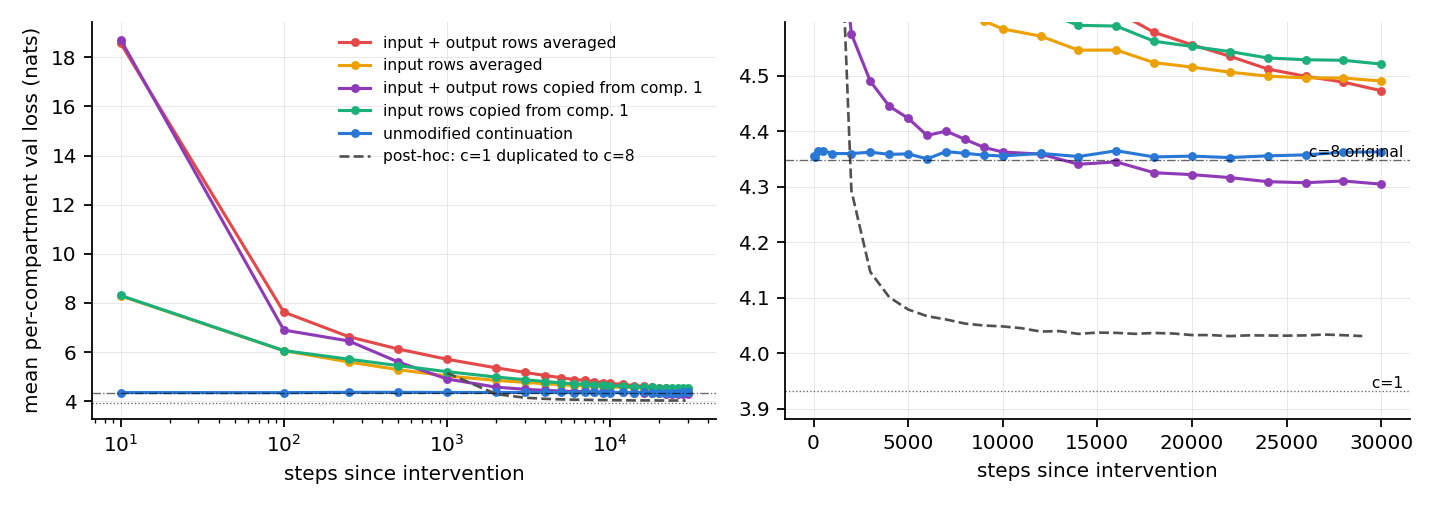
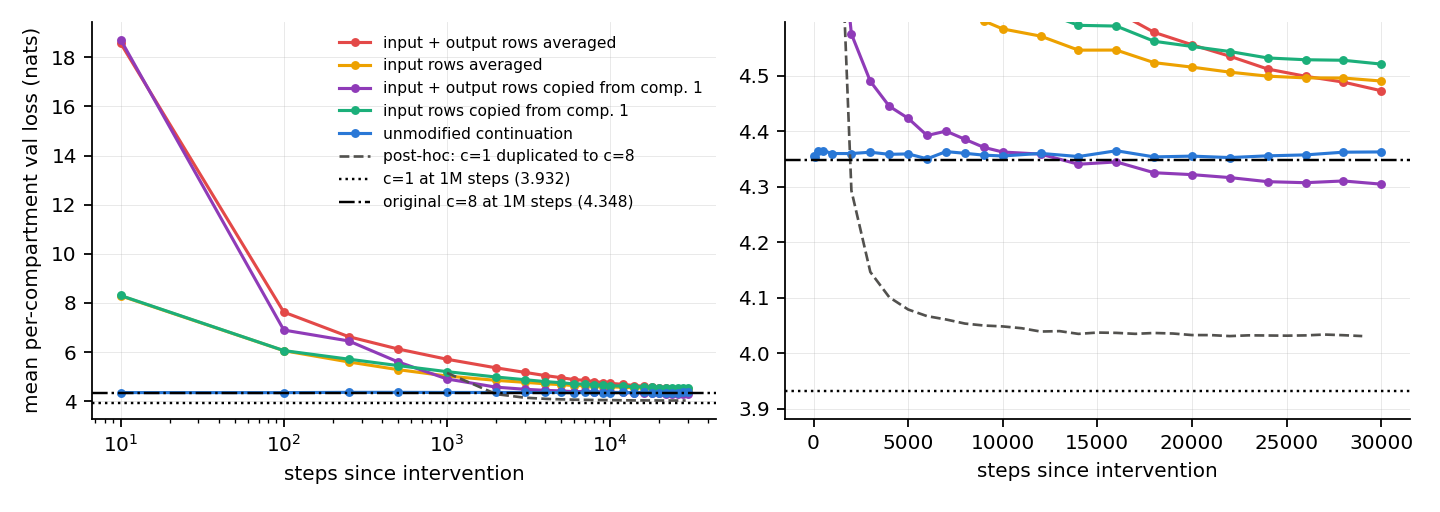
avgemb plot: labeled c=1 and original c=8 reference lines in the legend

diff --git a/experiment/avgemb/plot_avgemb.py b/experiment/avgemb/plot_avgemb.py
@@ -62,14 +62,12 @@ def main():
     fy = np.array([mean_loss(ft, C, i) for i in range(len(fs))])
     for ax in axes:
         ax.plot(fs, fy, "--", color="#52514e", lw=1.2, label="post-hoc: c=1 duplicated to c=8")
-        ax.axhline(c1, color="black", lw=0.6, ls=":", alpha=0.6)
-        ax.axhline(c8, color="black", lw=0.6, ls="-.", alpha=0.6)
+        ax.axhline(c1, color="black", lw=1.1, ls=":", label=f"c=1 at 1M steps ({c1:.3f})")
+        ax.axhline(c8, color="black", lw=1.1, ls="-.", label=f"original c=8 at 1M steps ({c8:.3f})")
         ax.set_xlabel("steps since intervention")
     axes[0].set_xscale("log")
     axes[0].set_ylabel("mean per-compartment val loss (nats)")
     axes[1].set_ylim(c1 - 0.05, c8 + 0.25)
-    axes[1].text(0.99, c1, " c=1", transform=axes[1].get_yaxis_transform(), va="bottom", ha="right", fontsize=7)
-    axes[1].text(0.99, c8, " c=8 original", transform=axes[1].get_yaxis_transform(), va="bottom", ha="right", fontsize=7)
     axes[0].legend(frameon=False, fontsize=7)
     fig.tight_layout()
     fig.savefig(out + ".pdf")
